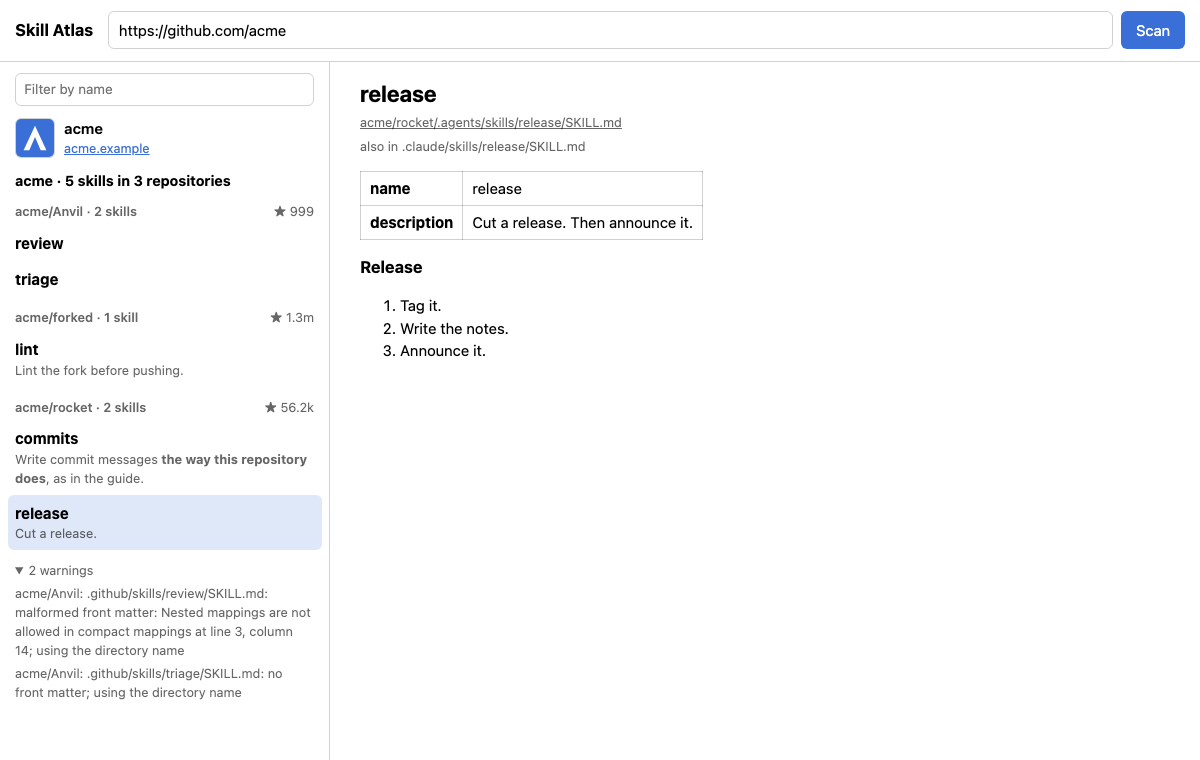
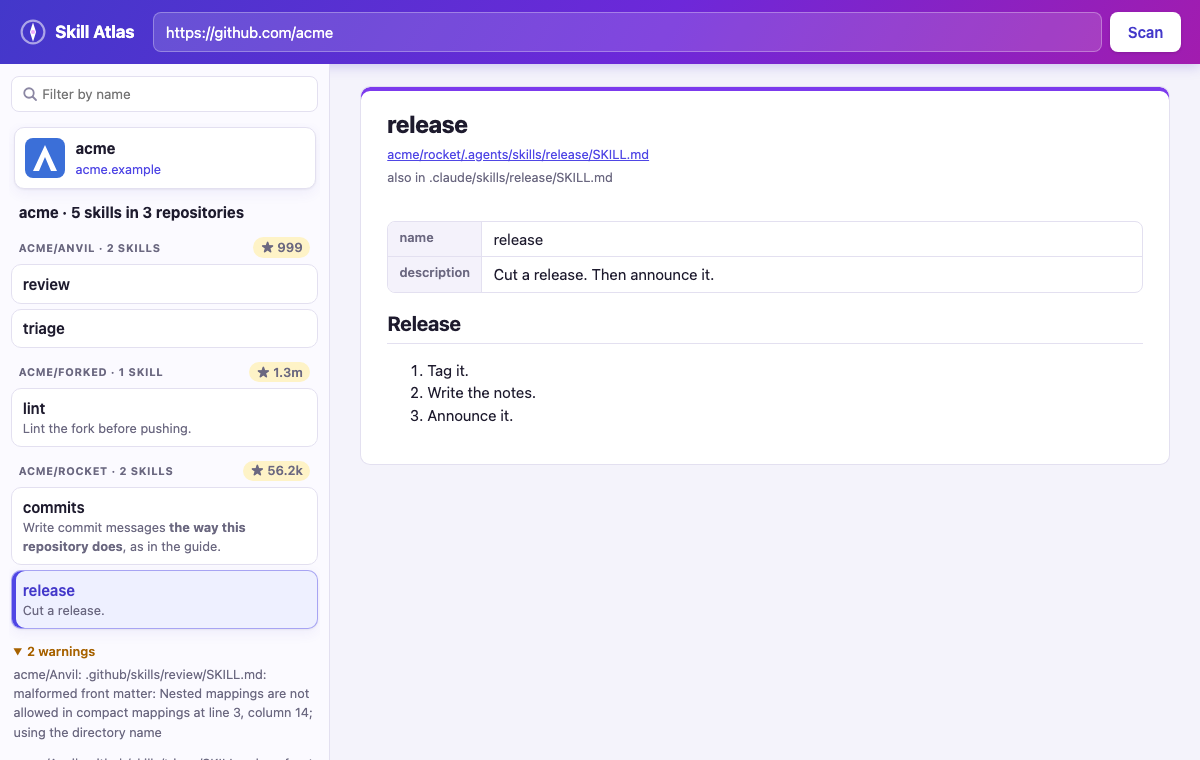
Shots and README: the new look
The shots taken by the Visual job on macOS, and the demo's video again;
the README mentions the CLI's colors and the dark mode.

Part of #11.

Produced by Air Automations. Name: Issue to PR / Run: https://air.jetbrains.cloud/org/05cf1a7f-6ab5-713b-abd3-29d0c8a05e2d/automations/0eaebaa5-735b-4f1c-987b-8bf10a5c60c6?run=23b879e5-c619-4090-9897-f347cb434936

diff --git a/README.md b/README.md
@@ -1,7 +1,7 @@
 # Skill Atlas
 
 Every agent skill in a repository: `./skill-atlas scan` finds each `SKILL.md` and prints its name,
-description and link.
+description and link, in colors on a terminal (`NO_COLOR` turns them off, `FORCE_COLOR` on).
 
 ```console
 $ npm ci
@@ -18,7 +18,7 @@ Or a whole organization, repository by repository: `./skill-atlas scan https://g
 Or browse them: `./skill-atlas serve` opens a web view at http://localhost:3000 (`--port` for another
 port), with the repository or organization to search at the top, its skills on the left, under the
 organization's avatar and homepage, by repository with its stars and filtered by name as you type,
-and the selected `SKILL.md` on the right.
+and the selected `SKILL.md` on the right, in light or dark mode as your system is.
 
 Set `GITHUB_TOKEN` for a higher GitHub rate limit. `npm test` runs the tests.
 
